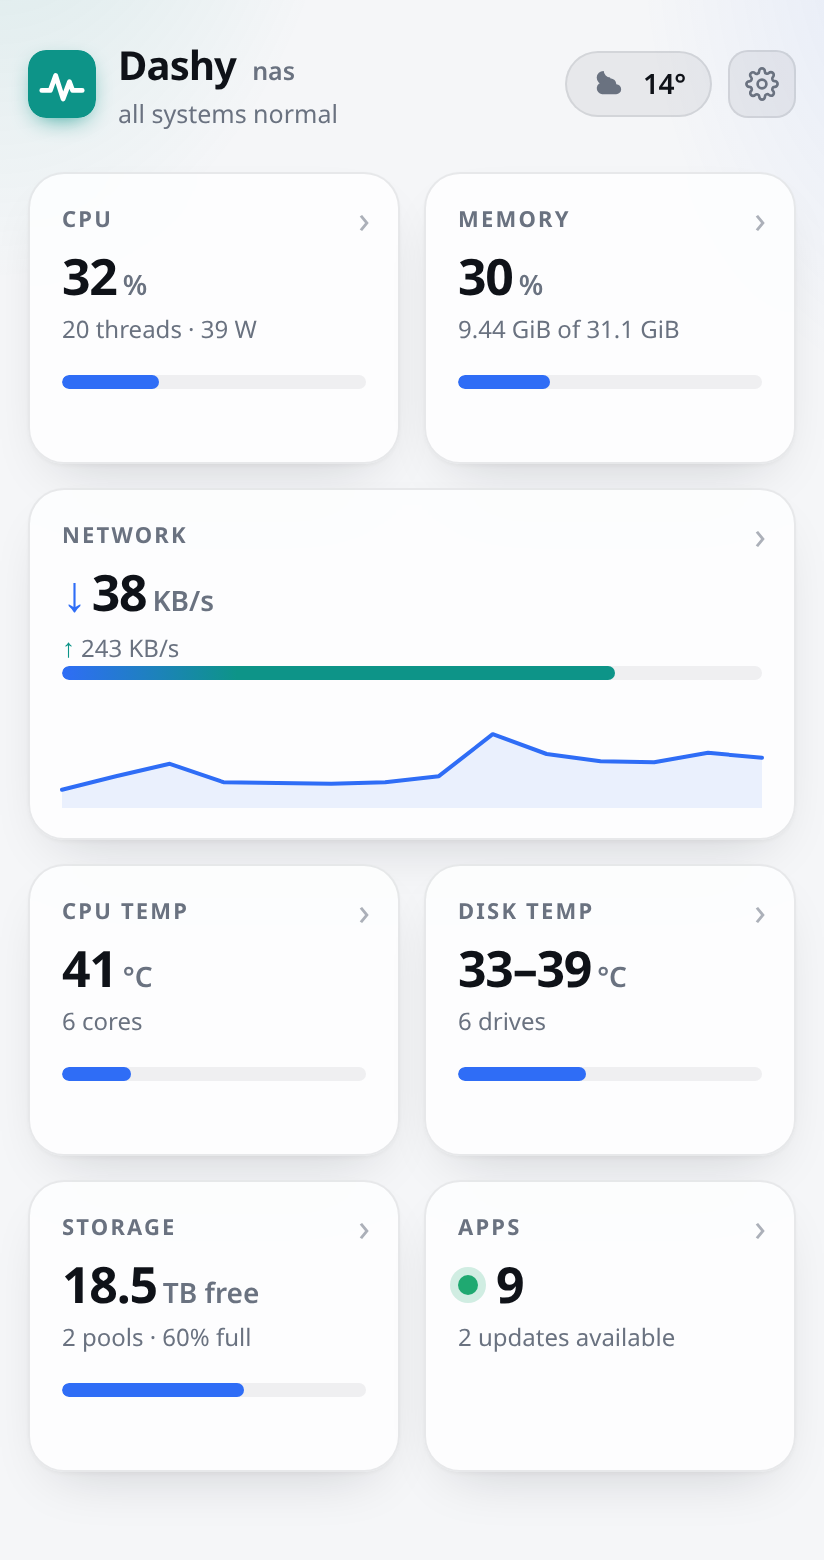
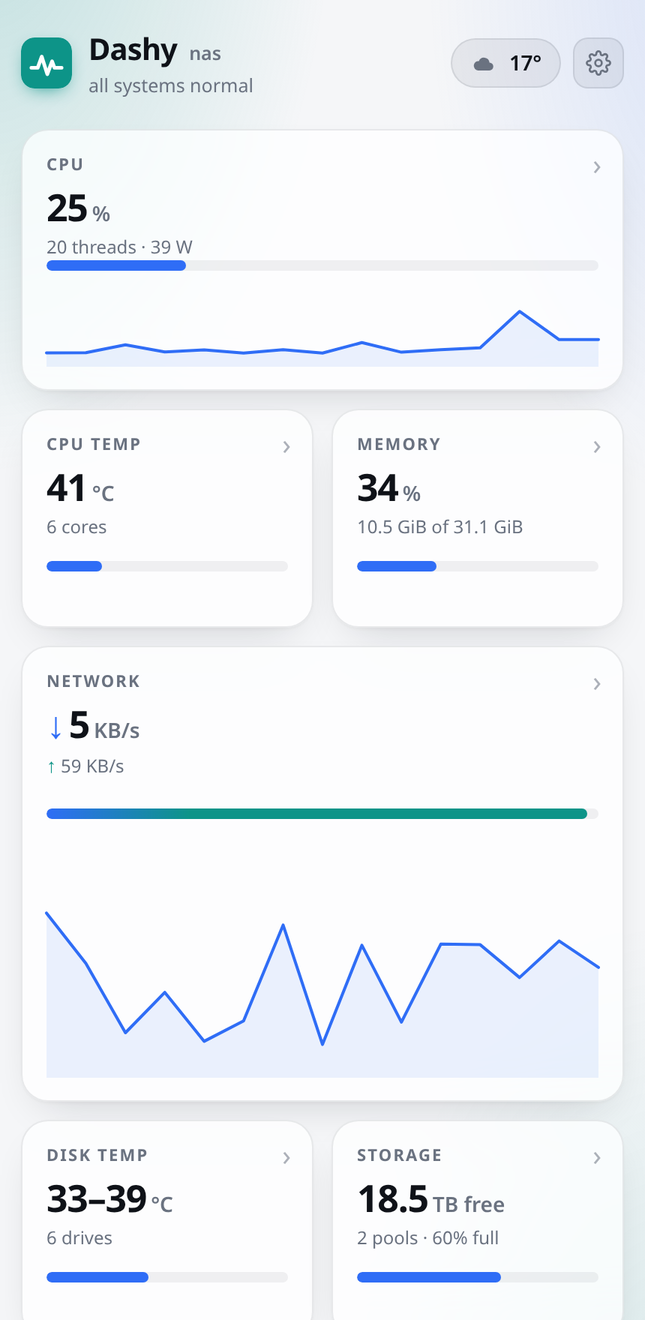
0.12.3 — the badge rides with the wobble, and new screenshots
The x on a tile corner sat perfectly still while the tile wobbled underneath
it, because 0.12.0 moved the animation onto the card and the badge is the
card's sibling. Both now live inside a .jig element that carries the wobble,
leaving the wrapper above it free for the drag animation - those two still
cannot share an element, which is the whole reason for the extra div.

The screenshots were from 0.7.x: no update row, no 4x tiles, an eye instead of
an x, and twelve accent swatches that the server was quietly refusing to store.
All six are retaken and a seventh added showing an update waiting, which is the
one Cameron asked for.

They are rendered from a NAS that does not exist - nas.tailnet.ts.net, invented
apps, a London weather pin - because this repository is public. The first
attempt photographed a leftover server from an earlier test and produced six
pictures of the wrong machine in the wrong mode, so the harness now asks each
server who it is before the shutter opens, and stands up stub listeners on the
demo ports so the tiles do not all read "not responding".

diff --git a/app/server.py b/app/server.py
@@ -12,7 +12,7 @@ import urllib.parse
 import urllib.request
 from http.server import BaseHTTPRequestHandler, ThreadingHTTPServer
 
-APP_VERSION = "0.12.2"
+APP_VERSION = "0.12.3"
 APP_NAME = "Dashy"
 PORT = int(os.environ.get("DASH_PORT", "8080"))
 DATA = os.environ.get("DASH_DATA", "/data")
@@ -1373,19 +1373,23 @@ PAGE = """<!doctype html>
   @keyframes jigA{0%,100%{transform:rotate(-.7deg)}50%{transform:rotate(.7deg)}}
   @keyframes jigB{0%,100%{transform:rotate(.7deg)}50%{transform:rotate(-.7deg)}}
   body.editing .cardwrap{touch-action:none}
-  body.editing .cardwrap > .card{animation:jigA .28s ease-in-out infinite;
-                                 transform-origin:50% 50%}
-  body.editing .cardwrap:nth-child(2n) > .card{animation-name:jigB}
-  body.editing .cardwrap:nth-child(3n) > .card{animation-delay:-.09s}
-  body.editing .cardwrap:nth-child(5n) > .card{animation-delay:-.17s}
-  /* the tile being carried does not wobble, and it is the wrapper that is
-     positioned, so the scale goes on the card where it will not fight FLIP */
+  /* The wobble lives on .jig, which holds the card AND its corner badge, so the
+     badge travels with the tile. The wrapper above it stays untouched for the
+     drag animation - a running animation beats an inline transform, so those
+     two can never share an element. */
+  .jig{position:relative;display:flex;width:100%}
+  body.editing .cardwrap > .jig{animation:jigA .28s ease-in-out infinite;
+                                transform-origin:50% 50%}
+  body.editing .cardwrap:nth-child(2n) > .jig{animation-name:jigB}
+  body.editing .cardwrap:nth-child(3n) > .jig{animation-delay:-.09s}
+  body.editing .cardwrap:nth-child(5n) > .jig{animation-delay:-.17s}
   body.editing .cardwrap.drag{z-index:40;pointer-events:none}
-  body.editing .cardwrap.drag > .card{animation:none;transform:scale(1.06);
-                              opacity:.92;box-shadow:0 18px 40px -12px rgba(0,0,0,.45)}
+  body.editing .cardwrap.drag > .jig{animation:none;transform:scale(1.06);
+                              opacity:.92}
+  body.editing .cardwrap.drag .card{box-shadow:0 18px 40px -12px rgba(0,0,0,.45)}
   body.editing .cardwrap.slot{opacity:.35}
   @media (prefers-reduced-motion:reduce){
-    body.editing .cardwrap > .card{animation:none}
+    body.editing .cardwrap > .jig{animation:none}
     .cardwrap{transition:none !important}
   }
   .card.ghost{opacity:.45}
@@ -1398,7 +1402,7 @@ PAGE = """<!doctype html>
   .cardwrap{position:relative;display:flex;
             -webkit-user-select:none;user-select:none;
             -webkit-touch-callout:none}
-  .cardwrap > .card{width:100%}
+  .cardwrap .card{width:100%}
   .cardtools{position:absolute;inset:0;display:none;align-items:center;justify-content:center;
              gap:7px;background:color-mix(in srgb,var(--panel) 86%,transparent);
              border-radius:var(--r);z-index:3}
@@ -1421,8 +1425,8 @@ PAGE = """<!doctype html>
   .cardwrap[data-off="1"] .xbtn{color:var(--ok);font-weight:700}
   .cardtools .hint{position:absolute;bottom:8px;left:0;right:0;text-align:center;
                    font-size:10px;color:var(--muted);font-weight:600;pointer-events:none}
-  .cardwrap[data-off="1"] > .card,
-  .cardwrap[data-off="1"] > .cardtools{opacity:.34}
+  .cardwrap[data-off="1"] .card,
+  .cardwrap[data-off="1"] .cardtools{opacity:.34}
   body:not(.editing) .cardwrap[data-off="1"]{display:none}
   .editbar{display:none;align-items:center;gap:10px;margin:0 0 12px;padding:11px 14px;
            background:var(--panel);border:1px solid var(--brd);border-radius:14px;
@@ -1457,6 +1461,7 @@ PAGE = """<!doctype html>
   .cardwrap[data-w="2"]{grid-column:span 2}
   /* and a big one spans two of each - four cells, hence 4x */
   .cardwrap[data-w="4"]{grid-column:span 2;grid-row:span 2}
+  .cardwrap[data-w="4"] .jig,
   .cardwrap[data-w="4"] .card{min-height:100%}
   .spark{margin-top:10px;height:46px;width:100%;display:block;overflow:visible}
   .cardwrap[data-w="1"] .spark{display:none}
@@ -2386,9 +2391,11 @@ function cardHTML(c){
     '</div>'+
     '<button type="button" class="xbtn" data-eye="'+c.k+'" aria-label="Remove"></button>';
   return '<div class="cardwrap" data-k="'+c.k+'">'+
-           '<button class="card" data-pop="'+c.k+'">'+
-             '<p class="lbl">'+c.label+'</p>'+body+spark+
-           '</button>'+tools+
+           '<div class="jig">'+
+             '<button class="card" data-pop="'+c.k+'">'+
+               '<p class="lbl">'+c.label+'</p>'+body+spark+
+             '</button>'+tools+
+           '</div>'+
          '</div>';
 }
 

diff --git a/README.md b/README.md
@@ -35,7 +35,11 @@ add and remove things.
 | ![Phone](docs/03-phone.png) | ![Apps](docs/04-apps.png) |
 | On a phone | Apps, with versions and update markers |
 | ![Settings](docs/05-settings.png) | ![Arrange](docs/06-arrange.png) |
-| Settings | Hold-to-drag arrange mode |
+| Settings | Hold a tile to arrange: drag to reorder, **×** removes |
+
+![An update waiting](docs/07-update.png)
+
+*Dashy updates itself. Check whenever you like, or let it find one on its own.*
 
 ![Dark mode](docs/02-desktop-dark.png)
 
